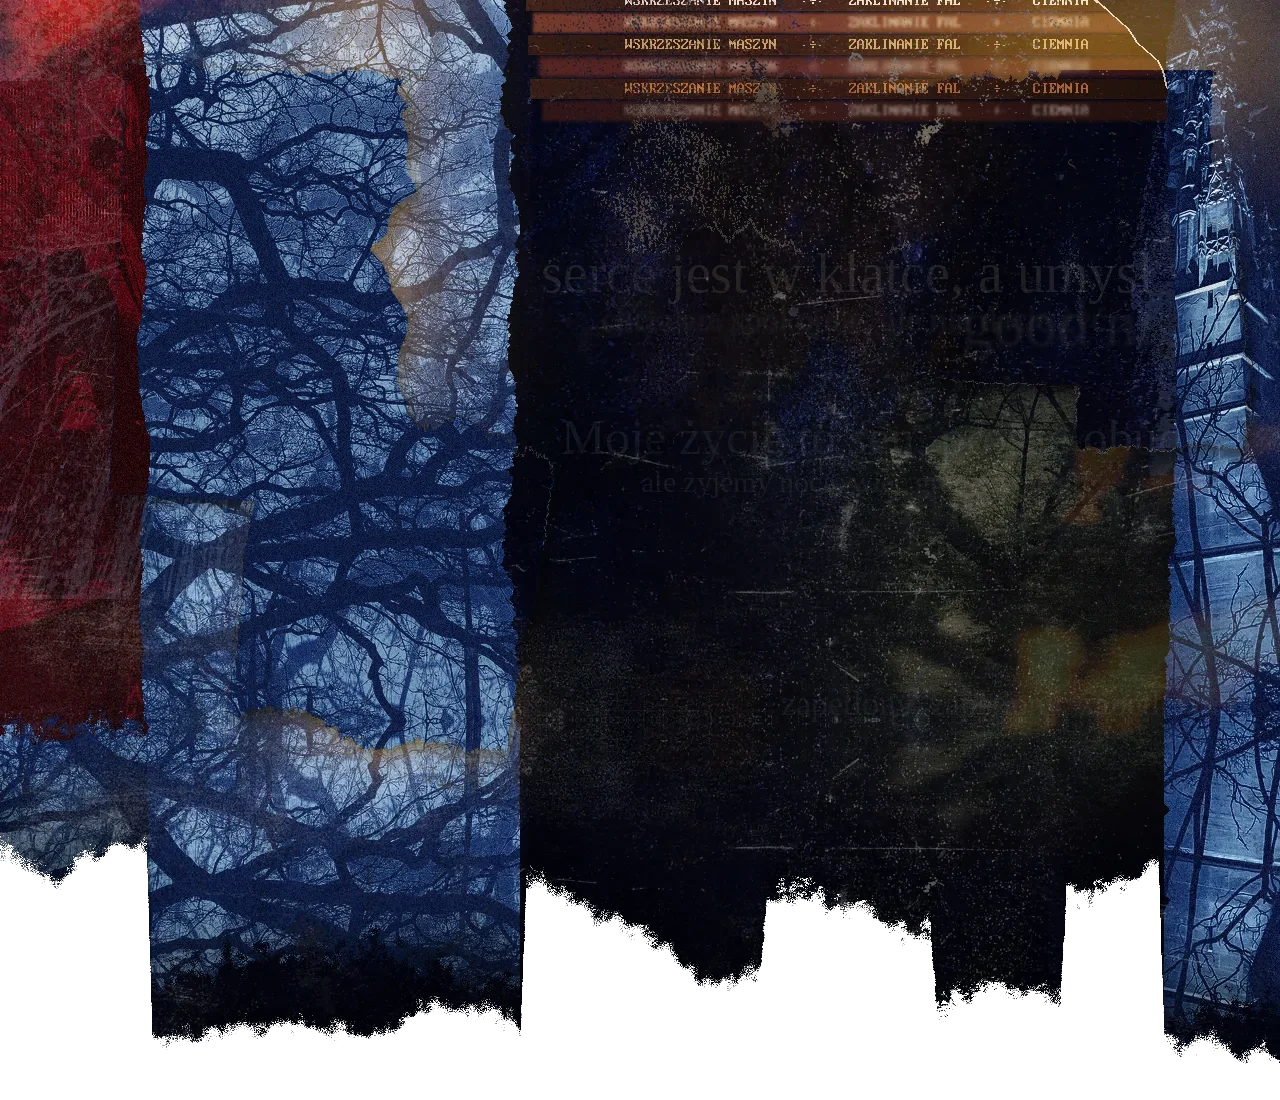
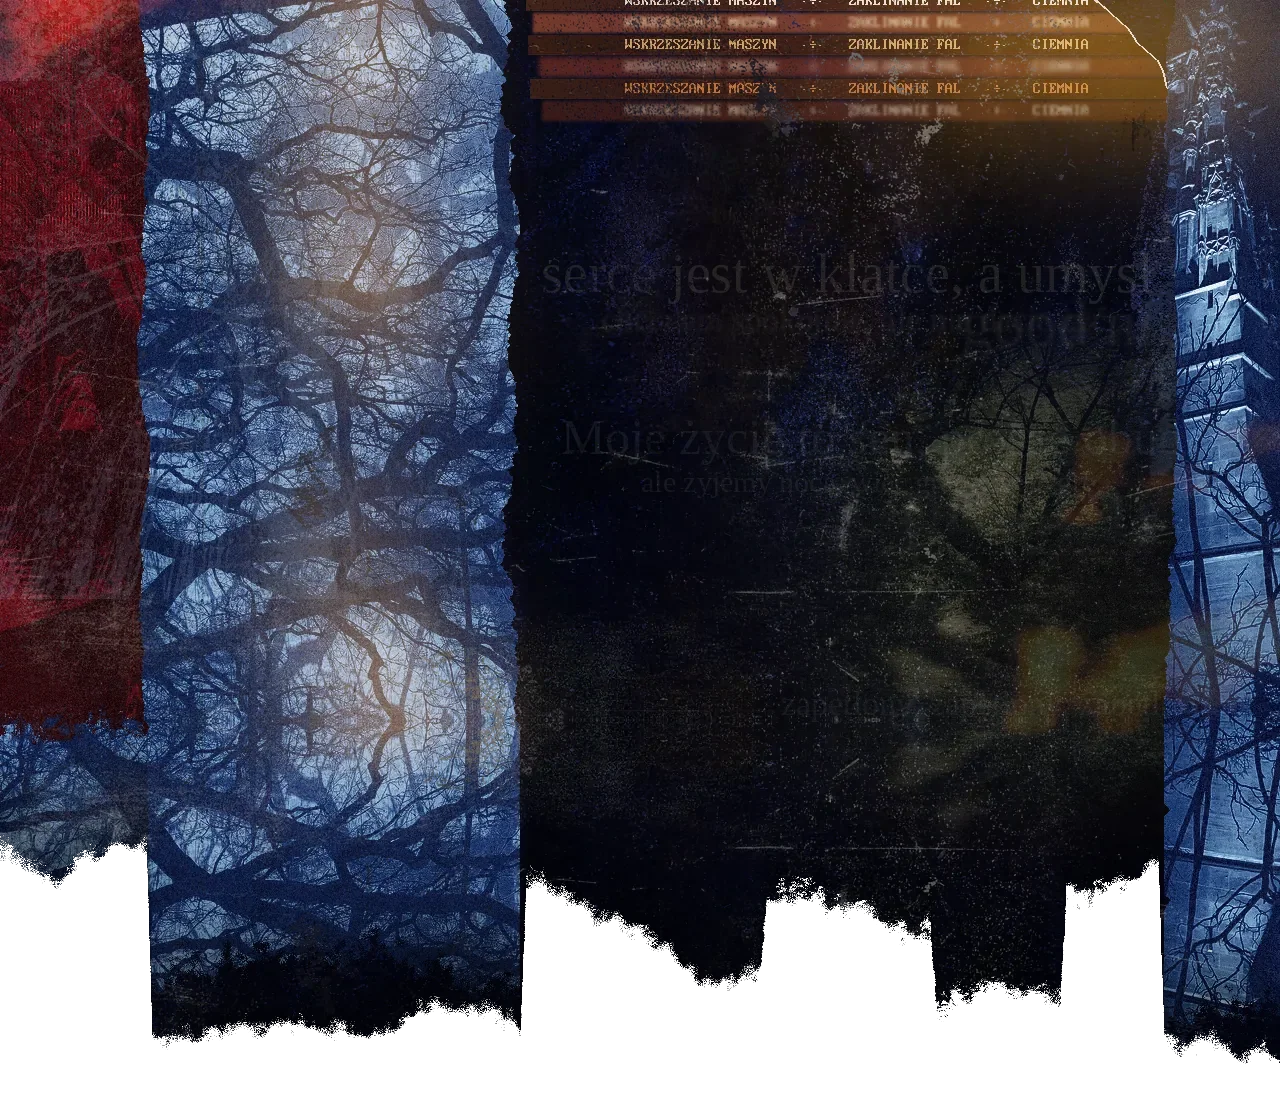
Krzyk: szybsze wczytywanie kolażu z gryzionymi brzegami, wyższy stempel; NFO z klikalnymi linkami
- Kolaż: tło bez zdjęć i bez ich cieni, a zdjęcia wypełniają się wstecz
  poszarpanymi, okrągłymi ugryzieniami: oko od prawego górnego rogu
  (z kawałkiem widocznym od początku), kamienica od prawej, portret od
  lewej; staw przykleja się jak naklejka, drugi portret zwija się z góry
  rulonem. Całość ok. 1,5 s, w 15 klatkach/s.
- Stempel KRZYK wyżej na komputerze: cały napis widać po wczytaniu.
- NFO: nazwy projektów i adresy GitHub/LinkedIn są linkami; po wciśnięciu
  zapalają się na czerwono i otwierają repozytorium w nowej karcie.

Claude-Session: https://claude.ai/code/session_01XYkKRxVWxhQVw3hCszqGrr

diff --git a/src/engine/krzykfx.js b/src/engine/krzykfx.js
@@ -28,7 +28,23 @@ export function typeOut(el, { seed = 7, speed = 1, delay = 0 } = {}) {
     setTimeout(step, delay); });
 }
 
-// wczytanie kolażu: reszta kolażu stoi od razu, a pięć zdjęć (oko, dwa portrety, kamienica, staw) rozwija się klatkami jak zwinięty papier
+// wczytanie kolażu: tło kolażu stoi od razu (bez zdjęć i ich cieni); zdjęcia wypełniają się wstecz, jakby ktoś je podgryzał do tyłu w czasie:
+// oko od prawego górnego rogu do lewego dolnego, kamienica od prawej, portret od lewej, staw przykleja się jak naklejka, drugi portret zwija się z góry rulonem
+const hash = (x, y) => { let n = Math.imul(x * 374761393 + y * 668265263, 1274126177); n ^= n >>> 13; n = Math.imul(n, 1103515245); return ((n ^ (n >>> 16)) >>> 0) / 4294967296; };
+function thresholds(w, h, frm) {
+  // T[i] = moment (0..1), w którym piksel „wraca”: kierunek + poszarpane, okrągłe ugryzienia (worley) + drobne strzępy
+  const T = new Float32Array(w * h), CS = Math.max(14, Math.round(Math.min(w, h) / 9));
+  const gx = Math.ceil(w / CS) + 2, gy = Math.ceil(h / CS) + 2, px = new Float32Array(gx * gy), py = new Float32Array(gx * gy);
+  for (let j = 0; j < gy; j++) for (let i = 0; i < gx; i++) { px[j * gx + i] = (i + hash(i, j * 7 + 1)) * CS; py[j * gx + i] = (j + hash(i * 5 + 3, j)) * CS; }
+  const proj = (u, v) => frm === 'tr' ? ((1 - u) * w + v * h) / (w + h) : frm === 'r' ? 1 - u : frm === 'l' ? (u * .8 + v * .2) : v;
+  for (let y = 0; y < h; y++) for (let x = 0; x < w; x++) {
+    const ci = Math.floor(x / CS) + 1, cj = Math.floor(y / CS) + 1; let d = 1e9;
+    for (let dj = -1; dj <= 1; dj++) for (let di = -1; di <= 1; di++) { const k = (cj + dj) * gx + ci + di, dx = px[k] - CS - x, dy = py[k] - CS - y; const dd = dx * dx + dy * dy; if (dd < d) d = dd; }
+    const wo = Math.min(1, Math.sqrt(d) / CS), p = proj(x / w, y / h);
+    T[y * w + x] = p * .78 + wo * .13 + hash(x >> 1, y >> 1) * .035 + hash(x, y) * .02 + .02;
+  }
+  return T;
+}
 function assemble(sec, url) {
   const cv = sec.querySelector('.k-asm'); if (!cv) return Promise.resolve();
   if (RM) { cv.remove(); return Promise.resolve(); }
@@ -41,30 +57,47 @@ function assemble(sec, url) {
     // komputer: cały kolaż; telefon: prawa połówka (x ≥ 455) u góry, lewa (x < 526) niżej, jak na tle
     const half = h => { const cw = cv.width; if (!ph) return { s: cw / 1280, ox: 0, oy: 0, cx0: 0, cx1: 1280 };
       return h === 'L' ? { s: cw / 526, ox: 0, oy: 700 / 720 * cw, cx0: 0, cx1: 526 } : { s: cw / 825, ox: -455 * cw / 825, oy: 0, cx0: 455, cx1: 1280 }; };
-    const STEP = 1000 / 12, ROLL = 640, GAP = 330;
-    const P = meta.pieces.map((p, i) => ({ ...p, im: ims[i], hf: ph && LEFT.has(p.n) ? 'L' : 'R', t0: 300 + i * GAP }));
-    const order = meta.stack.map(n => P.find(p => p.n === n)).filter(Boolean);
+    // piksele sprite'ów i mapy progów (liczone raz)
+    const P = meta.pieces.map((p, i) => {
+      const o = { ...p, im: ims[i], hf: ph && LEFT.has(p.n) ? 'L' : 'R' }; if (!o.im) return o;
+      const c = document.createElement('canvas'); c.width = p.w; c.height = p.h; const cx = c.getContext('2d', { willReadFrequently: true }); cx.drawImage(o.im, 0, 0);
+      o.src = cx.getImageData(0, 0, p.w, p.h); o.out = cx.createImageData(p.w, p.h); o.cv = c; o.cx = cx;
+      if (p.mode === 'bite') o.T = thresholds(p.w, p.h, p.frm); return o; });
+    const STEP = 1000 / 15, STEPS = 14;
     const ground = h => { const T = half(h); x.drawImage(gr, T.cx0, 0, T.cx1 - T.cx0, meta.h, T.ox + T.cx0 * T.s, T.oy, (T.cx1 - T.cx0) * T.s, meta.h * T.s); };
-    const piece = (p, t) => { if (!p.im) return; const T = half(p.hf), raw = (t - p.t0) / ROLL; if (raw <= 0) return;
-      const k = Math.min(1, Math.round(Math.min(1, raw) * 8) / 8);                 // klatkowo: 8 kroków rozwijania
-      const X = T.ox + p.x * T.s, Y = T.oy + p.y * T.s, Wd = p.w * T.s, Ht = p.h * T.s, hor = p.dir === 'r', len = (hor ? Wd : Ht) * k;
+    const shadow = (T, on, k) => { if (!on) { x.shadowColor = 'transparent'; return; } x.shadowColor = 'rgba(0,0,0,.65)'; x.shadowBlur = 14 * T.s * dpr; x.shadowOffsetX = 6 * T.s; x.shadowOffsetY = 9 * T.s * (1 + (1 - k) * 1.2); };
+    const piece = (p, t) => { if (!p.im || !p.src) return; const T = half(p.hf), raw = (t - p.t0) / p.dur; if (raw < 0 && !(p.k0 > 0)) return;
+      const kq = Math.min(1, Math.max(0, Math.floor(Math.max(0, raw) * STEPS) / STEPS)), k = p.k0 + (1 - p.k0) * kq;
+      const X = T.ox + p.x * T.s, Y = T.oy + p.y * T.s, Wd = p.w * T.s, Ht = p.h * T.s;
       x.save(); x.beginPath(); x.rect(T.ox + T.cx0 * T.s, T.oy, (T.cx1 - T.cx0) * T.s, meta.h * T.s); x.clip();
-      x.beginPath(); if (hor) x.rect(X, Y, len, Ht); else if (p.dir === 'd') x.rect(X, Y, Wd, len); else x.rect(X, Y + Ht - len, Wd, len); x.clip();
-      x.drawImage(p.im, X, Y, Wd, Ht); x.restore();
-      if (k < 1) { // zwinięta rolka papieru na krawędzi: jasny wałek z cieniem
-        const rw = Math.max(4, 11 * T.s); x.save();
-        let g; if (hor) { const ex = X + len; g = x.createLinearGradient(ex, 0, ex + rw, 0); x.translate(0, 0); g.addColorStop(0, '#2a2420'); g.addColorStop(.35, '#e9e1cd'); g.addColorStop(.7, '#b9ad94'); g.addColorStop(1, '#3a332c'); x.fillStyle = g; x.fillRect(ex, Y - rw * .15, rw, Ht + rw * .3);
-          x.fillStyle = 'rgba(0,0,0,.45)'; x.fillRect(ex + rw, Y, rw * .8, Ht); }
-        else { const ey = p.dir === 'd' ? Y + len : Y + Ht - len - rw; g = x.createLinearGradient(0, ey, 0, ey + rw); g.addColorStop(0, '#2a2420'); g.addColorStop(.35, '#e9e1cd'); g.addColorStop(.7, '#b9ad94'); g.addColorStop(1, '#3a332c'); x.fillStyle = g; x.fillRect(X - rw * .15, ey, Wd + rw * .3, rw);
-          x.fillStyle = 'rgba(0,0,0,.45)'; x.fillRect(X, p.dir === 'd' ? ey + rw : ey - rw * .8, Wd, rw * .8); }
-        x.restore(); } };
-    const END = P[P.length - 1].t0 + ROLL + 200; let t0 = null, last = -1;
+      if (p.mode === 'bite') {
+        const s = p.src.data, d = p.out.data, TT = p.T, n = p.w * p.h, lim = k * 1.05, rim = lim - .045;
+        for (let i = 0, j = 0; i < n; i++, j += 4) { const th = TT[i];
+          if (th > lim || s[j + 3] === 0) { d[j + 3] = 0; continue; }
+          if (th > rim) { d[j] = s[j] * .35 + 214 * .65; d[j + 1] = s[j + 1] * .35 + 206 * .65; d[j + 2] = s[j + 2] * .35 + 184 * .65; d[j + 3] = s[j + 3]; }   // świeżo odgryziony brzeg: biel kartki
+          else { d[j] = s[j]; d[j + 1] = s[j + 1]; d[j + 2] = s[j + 2]; d[j + 3] = s[j + 3]; } }
+        p.cx.putImageData(p.out, 0, 0); shadow(T, true, k); x.drawImage(p.cv, X, Y, Wd, Ht);
+      } else if (p.mode === 'sticker') {
+        if (raw < 0) { x.restore(); return; }
+        const e = Math.min(1, raw), step = Math.floor(e * 4) / 4, sc = 1.22 - .22 * step, rot = (-.1 + .1 * step), pop = step >= 1 ? 1 : .55 + .45 * step;
+        x.translate(X + Wd / 2, Y + Ht / 2); x.rotate(rot); x.scale(sc, sc); x.globalAlpha = pop; shadow(T, true, step);
+        x.drawImage(p.im, -Wd / 2, -Ht / 2, Wd, Ht);
+      } else { // roll: zwija się z góry, rulon na brzegu natarcia
+        if (raw < 0) { x.restore(); return; }
+        const len = Ht * Math.min(1, Math.floor(Math.min(1, raw) * 10) / 10);
+        x.save(); x.beginPath(); x.rect(X, Y, Wd, len); x.clip(); shadow(T, true, 1); x.drawImage(p.im, X, Y, Wd, Ht); x.restore();
+        if (len < Ht) { const rw = Math.max(4, 11 * T.s), g = x.createLinearGradient(0, Y + len, 0, Y + len + rw);
+          g.addColorStop(0, '#2a2420'); g.addColorStop(.35, '#e9e1cd'); g.addColorStop(.7, '#b9ad94'); g.addColorStop(1, '#3a332c'); x.fillStyle = g; x.fillRect(X - rw * .15, Y + len - rw * .5, Wd + rw * .3, rw); }
+      }
+      x.restore(); };
+    const ENDT = Math.max(...P.map(p => p.t0 + p.dur)) + 120; let t0 = null, last = -1, signalled = false;
     const frame = now => { if (t0 === null) t0 = now; const t = now - t0, st = Math.floor(t / STEP);
       if (st !== last) { last = st; x.clearRect(0, 0, cv.width, cv.height);
-        if (ph) { ground('L'); order.filter(p => p.hf === 'L').forEach(p => piece(p, t)); ground('R'); order.filter(p => p.hf === 'R').forEach(p => piece(p, t)); }
-        else { ground('R'); order.forEach(p => piece(p, t)); }
+        if (ph) { ground('L'); P.filter(p => p.hf === 'L').forEach(p => piece(p, t)); ground('R'); P.filter(p => p.hf === 'R').forEach(p => piece(p, t)); }
+        else { ground('R'); P.forEach(p => piece(p, t)); }
         cv.classList.add('drawn'); }
-      if (t < END) requestAnimationFrame(frame); else { cv.classList.add('done'); setTimeout(() => cv.remove(), 450); done(); } };
+      if (!signalled && t > ENDT * .72) { signalled = true; done(); }           // stempel startuje, zanim ostatnie zdjęcie dojedzie
+      if (t < ENDT) requestAnimationFrame(frame); else { cv.classList.add('done'); setTimeout(() => cv.remove(), 380); } };
     requestAnimationFrame(frame);
   }))).catch(() => { cv.remove(); });
 }
@@ -80,7 +113,7 @@ export function initKrzykFx(sec, opts = {}) {
     if (st) await new Promise(r => { if (st.complete) r(); else st.addEventListener('load', r, { once: true }); });
     sec.classList.add('dev');
     await (document.fonts ? document.fonts.load('34px "Special Elite K"').catch(() => {}) : 0);
-    for (let i = 0; i < mot.length; i++) await typeOut(mot[i], { seed: 31 + i, delay: i ? 260 : 1500 });
+    for (let i = 0; i < mot.length; i++) await typeOut(mot[i], { seed: 31 + i, delay: i ? 200 : 900 });
   })();
   // podpisy i nagłówki pisane, gdy wjadą w kadr
   const io = new IntersectionObserver(es => es.forEach(e => { if (!e.isIntersecting) return; io.unobserve(e.target);

diff --git a/src/engine/maszyn.js b/src/engine/maszyn.js
@@ -210,6 +210,11 @@ export function initMaszyn(root, opts) {
       {kv: [['GITHUB', 'github.com/d4krzyk'], ['LINKEDIN', 'linkedin.com/in/d4krzyk']]},
       {c: ['', 'DŹWIĘK I OBRAZ  //  W SZTUCE I W KODZIE']},
     ];
+    // linki w NFO: słowo kluczowe w wierszu -> litera klasy (A..H) -> adres; po wciśnięciu napis zapala się na czerwono i otwiera repozytorium
+    const GH = 'https://github.com/d4krzyk/';
+    const LINKS = { A: GH + 'MasterWorkVE-2.0', B: GH + 'WikiRooms-Project', C: GH + 'Remuz-io', D: GH + 'MusicClubApp', E: GH + 'ShadowDetection', F: GH + 'GameInJava', G: 'https://github.com/d4krzyk', H: 'https://www.linkedin.com/in/d4krzyk' };
+    const KEYS = [['VISUAL ECHOES 2.0', 'A'], ['WIKIROOMS', 'B'], ['REMUZ.IO', 'C'], ['MUSICCLUBAPP', 'D'], ['SHADOWDETECTION', 'E'], ['GAMEINJAVA', 'F'], ['github.com/d4krzyk', 'G'], ['linkedin.com/in/d4krzyk', 'H']];
+    const linkify = rows => rows.map(([t, k]) => { const kk = [...k.padEnd(t.length, ' ')]; for (const [key, L] of KEYS) { let i = t.indexOf(key); while (i >= 0) { for (let j = 0; j < key.length; j++) kk[i + j] = L; i = t.indexOf(key, i + key.length); } } return [t, kk.join('')]; });
     const wrapText = (t, w) => { const out = []; let cur = ''; for (const wd of t.split(/\s+/)) { if (!wd) continue; if (!cur) cur = wd; else if ((cur + ' ' + wd).length <= w) cur += ' ' + wd; else { out.push(cur); cur = wd; } } if (cur) out.push(cur); return out; };
     // wiersze treści: [tekst, klasy] o szerokości do w
     const compose = (w, gap = 0) => {
@@ -222,7 +227,7 @@ export function initMaszyn(root, opts) {
         else if (b.kv) { const kc = Math.min(11, Math.floor(w * .34)); for (const [k, v] of b.kv) { if (Math.max(...v.split(' ').map(x => x.length)) > w - kc) { add(k, 'd'.repeat(k.length)); wrapText(v, w - 2).forEach(l => add('  ' + l, '  ' + 's'.repeat(l.length))); continue; } const vl = wrapText(v, w - kc - 1); vl.forEach((l, i) => { const key = i ? ' '.repeat(kc) : (k + ' ' + '.'.repeat(Math.max(1, kc - k.length - 2)) + ' ').padEnd(kc); const t = key + l; add(t.slice(0, w), (i ? ' '.repeat(kc) : 'd'.repeat(Math.min(kc, key.length))) + 's'.repeat(Math.max(0, t.length - kc))); }); } }
         else if (b.e) { const [t1, t2, tx] = b.e; wrapText(t1, w).forEach(l => add(l, 's'.repeat(l.length))); add('  ' + t2, '  ' + 'd'.repeat(t2.length)); wrapText(tx, w - 2).forEach(l => add('  ' + l, '  ' + 's'.repeat(l.length))); if (tx) rows.push(['', '']); }
       }
-      return rows;
+      return linkify(rows);
     };
     {
       const A = 9, B = 26, TW = 40, X0 = 23, SRC = L.full, N0 = SRC.ch.length;
@@ -269,6 +274,7 @@ export function initMaszyn(root, opts) {
         const flush = () => {
           if (!run) return;
           const c = CLASS[k0];
+          if (LINKS[k0]) { html += `<a class="lk" href="${LINKS[k0]}" target="_blank" rel="noopener noreferrer">${run}</a>`; run = ''; return; }
           html += c ? `<span class="${c}"${c === 'o' || c === 'q' || c === 'r' ? ' aria-hidden="true"' : ''}>${run}</span>` : run;
           run = '';
         };
@@ -279,7 +285,7 @@ export function initMaszyn(root, opts) {
           if (o) [g, k] = o;
           if (dec && g !== ' ') { const t = (dec.now - dec.t0 - (r / G.ch.length) * 900 - dh(r, c) * 420) / 150;
             if (t < 0) g = ' '; else if (t < 1) { g = BLK[Math.min(2, Math.floor(t * 3))]; k = 'd'; } }
-          if (g === ' ' || k === 's') k = ' ';
+          if ((g === ' ' && !LINKS[k]) || k === 's') k = ' ';
           if (k !== k0) { flush(); k0 = k; }
           run += esc(g);
         }
@@ -308,11 +314,16 @@ export function initMaszyn(root, opts) {
     update();
     if ('ResizeObserver' in window) new ResizeObserver(update).observe(wrap);
     else addEventListener('resize', update, {passive: true});
+    let holding = false;
+    pre.addEventListener('pointerenter', () => { holding = true; }); pre.addEventListener('pointerleave', () => { holding = false; });
+    pre.addEventListener('pointerdown', () => { holding = true; });
+    pre.addEventListener('click', e => { const a = e.target.closest && e.target.closest('a.lk'); if (!a) return; e.preventDefault();
+      const url = a.href; a.classList.add('zap'); setTimeout(() => { a.classList.remove('zap'); window.open(url, '_blank', 'noopener'); }, RM ? 0 : 260); });
     if (!RM) {
       // co ~5 s kropla wydłuża się, odrywa i spada w dół (12 kl./s); tylko w układzie FULL
       let last = -1;
       loop(pre, 12, t => {
-        if (mode !== 'full' || dec) return;
+        if (mode !== 'full' || dec || holding) return;
         const cyc = t % 5200;
         const f = cyc < 4300 ? -1 : Math.min(DROP.length - 1, Math.floor((cyc - 4300) / 84));
         if (f !== last) { last = f; render(f < 0 ? null : DROP[f]); }

diff --git a/src/app/globals.css b/src/app/globals.css
@@ -165,6 +165,7 @@ html::-webkit-scrollbar,body::-webkit-scrollbar{width:0;height:0;display:none}
 .k-asm{position:absolute;left:0;top:0;width:100cqw;height:85.94cqw;z-index:1;pointer-events:none;transition:opacity .45s;background:#04050a}
 .k-asm.drawn{background:none}
 .k-asm.done{opacity:0}
+.k-asm{transition:opacity .35s}
 .k-motto{position:absolute;left:0;top:0;width:100cqw;height:56.25cqw;z-index:2;pointer-events:none;container-type:inline-size;
   -webkit-mask:var(--dust-m) 0 0/100% 100% no-repeat;mask:var(--dust-m) 0 0/100% 100% no-repeat}
 .k-motto p:not([data-prep]){visibility:hidden}
@@ -174,7 +175,7 @@ html::-webkit-scrollbar,body::-webkit-scrollbar{width:0;height:0;display:none}
 .tw{opacity:0;display:inline-block;white-space:pre;transform:translate(var(--dx,0),var(--dy,0))}
 .tw.on{opacity:var(--ink,1)}
 .tw.hit{text-shadow:0 0 .12em currentColor;filter:brightness(1.4)}
-.k-stamp{position:absolute;left:35.55cqw;top:clamp(32cqw,calc(100svh - 29cqw),39.14cqw);width:58.75cqw;z-index:2;pointer-events:none;opacity:0;user-select:none}
+.k-stamp{position:absolute;left:35.55cqw;top:max(24cqw,min(39.14cqw,calc(100svh - 28.5cqw)));width:58.75cqw;z-index:2;pointer-events:none;opacity:0;user-select:none}
 .k-safe{position:absolute;left:0;top:0;width:100cqw;height:86cqw;z-index:2;pointer-events:none;opacity:0;mix-blend-mode:screen;
   background:radial-gradient(60% 45% at 66% 52%,rgba(150,12,8,.28),transparent 70%)}
 .dev .k-stamp{animation:k-develop 3.4s .35s both cubic-bezier(.35,.1,.3,1)}
@@ -257,6 +258,9 @@ html::-webkit-scrollbar,body::-webkit-scrollbar{width:0;height:0;display:none}
   line-height:1;letter-spacing:0;white-space:pre;color:var(--silver);-webkit-font-smoothing:none;font-smooth:never;font-kerning:none;
   font-variant-ligatures:none;scrollbar-width:thin;scrollbar-color:#2a2d3a transparent}
 .nfo-mid pre,.nfo-title,.nfo-sub{text-shadow:0 0 3px #000,0 0 8px #000,1px 1px 0 #000}
+.nfo-mid pre a.lk{color:#e8dcc0;text-decoration:underline dotted;text-decoration-color:#6e0d14;text-underline-offset:3px;cursor:pointer}
+.nfo-mid pre a.lk:hover,.nfo-mid pre a.lk:focus-visible{color:#ff5a3c;text-decoration-style:solid;outline:none}
+.nfo-mid pre a.lk.zap{color:#ff1f1f;background:rgba(196,18,29,.35);text-shadow:0 0 6px #ff1f1f,0 0 14px #c4121d}
 .nfo-mid pre .o{color:#5f6582}
 .nfo-mid pre .q{color:#3d4159}
 .nfo-mid pre .d{color:var(--ink-dim)}
